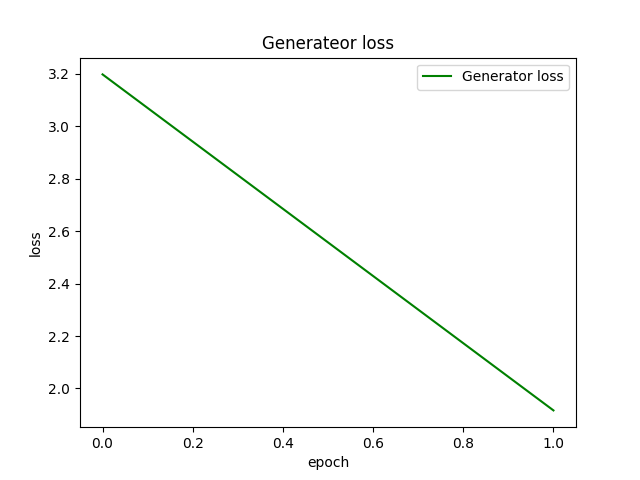
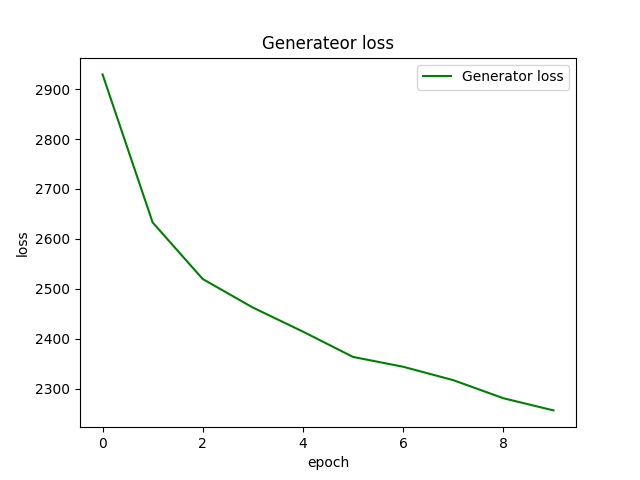
submit

diff --git a/train.py b/train.py
@@ -195,12 +195,12 @@ def train_fn(disc_H, disc_Z, gen_Z, gen_H, loader, opt_disc, opt_gen, l1, mse, d
                 G_loss = (
                     loss_G_Z
                     + loss_G_H
-                    # + color_zebra_loss
-                    # + color_horse_loss
+                    + color_zebra_loss
+                    + color_horse_loss
                     # + contant_zebra_loss
                     # + contant_horse_loss
                     + cycle_zebra_loss * 10
-                    + cycle_horse_loss * 10 
+                    + cycle_horse_loss * 10
                     # + cycle_zebra_loss * config.LAMBDA_CYCLE
                     # + cycle_horse_loss * config.LAMBDA_CYCLE
                     + identity_horse_loss * 0.5
@@ -218,7 +218,7 @@ def train_fn(disc_H, disc_Z, gen_Z, gen_H, loader, opt_disc, opt_gen, l1, mse, d
 
         loop.set_postfix(H_real=H_reals/(idx+1), H_fake=H_fakes/(idx+1))
 
-    return D_loss_total / 5, G_loss_total / 5
+    return D_loss_total / len(loop), G_loss_total / len(loop)
 
 def main():
     disc_H = Discriminator(in_channels=3).to(config.DEVICE)
@@ -242,16 +242,16 @@ def main():
 
     if config.LOAD_MODEL:
         load_checkpoint(
-            config.CHECKPOINT_GEN_H, gen_H, opt_gen, config.LEARNING_RATE,
+            "pre_trained\model\l1+color\genh.pth.tar", gen_H, opt_gen, config.LEARNING_RATE,
         )
         load_checkpoint(
-            config.CHECKPOINT_GEN_Z, gen_Z, opt_gen, config.LEARNING_RATE,
+            "pre_trained\model\l1+color\genz.pth.tar",gen_Z, opt_gen, config.LEARNING_RATE,
         )
         load_checkpoint(
-            config.CHECKPOINT_CRITIC_H, disc_H, opt_disc, config.LEARNING_RATE,
+            "pre_trained\model\l1+color\critich.pth.tar", disc_H, opt_disc, config.LEARNING_RATE,
         )
         load_checkpoint(
-            config.CHECKPOINT_CRITIC_Z, disc_Z, opt_disc, config.LEARNING_RATE,
+            "pre_trained\model\l1+color\criticz.pth.tar", disc_Z, opt_disc, config.LEARNING_RATE,
         )
 
     dataset = HorseZebraDataset(
@@ -288,10 +288,10 @@ def main():
         loss_D.append(avg_D_loss)
         loss_G.append(avg_G_loss)
         if config.SAVE_MODEL:
-            save_checkpoint(gen_H, opt_gen, filename=config.CHECKPOINT_GEN_H)
-            save_checkpoint(gen_Z, opt_gen, filename=config.CHECKPOINT_GEN_Z)
-            save_checkpoint(disc_H, opt_disc, filename=config.CHECKPOINT_CRITIC_H)
-            save_checkpoint(disc_Z, opt_disc, filename=config.CHECKPOINT_CRITIC_Z)
+            save_checkpoint(gen_H, opt_gen, filename="pre_trained\model\l1+color\genh.pth.tar")
+            save_checkpoint(gen_Z, opt_gen, filename="pre_trained\model\l1+color\genz.pth.tar")
+            save_checkpoint(disc_H, opt_disc, filename="pre_trained\model\l1+color\critich.pth.tar")
+            save_checkpoint(disc_Z, opt_disc, filename= "pre_trained\model\l1+color\criticz.pth.tar")
     x_axix = range(config.NUM_EPOCHS)
     plt.figure(0)
     plt.title('Discriminator loss')

diff --git a/test.py b/test.py
@@ -27,13 +27,13 @@ opt_gen = optim.Adam(
     betas=(0.5, 0.999),
 )
 load_checkpoint(
-    config.CHECKPOINT_GEN_H, gen_H, opt_gen, config.LEARNING_RATE,
+    "pre_trained\model\l1+color\genh.pth.tar", gen_H, opt_gen, config.LEARNING_RATE,
 )
 load_checkpoint(
-    config.CHECKPOINT_GEN_Z, gen_Z, opt_gen, config.LEARNING_RATE,
+   "pre_trained\model\l1+color\genz.pth.tar", gen_Z, opt_gen, config.LEARNING_RATE,
 )
-zebra_path = "WeChat Image_20220404202029.jpg"
-horse_path = "WeChat Image_20220404202029.jpg"
+zebra_path = "test/girl.jpg"
+horse_path = "test/girl.jpg"
 
 zebra_img = np.array(Image.open(zebra_path).convert("RGB"))
 horse_img = np.array(Image.open(horse_path).convert("RGB"))
@@ -52,4 +52,6 @@ zebra_img = augmentations["image"]
 horse_img = augmentations["image0"]
 horse_img = horse_img.to(config.DEVICE)
 arcane_chongyu = gen_H(horse_img)
-save_image(arcane_chongyu*0.5+0.5, f"chongyu.png")
+save_image(arcane_chongyu*0.5+0.5, f"arcane_girl.png")
+real_chongyu = gen_Z(arcane_chongyu)
+save_image(real_chongyu*0.5+0.5, f"real_girl.png")

diff --git a/config.py b/config.py
@@ -6,12 +6,12 @@ DEVICE = "cuda" if torch.cuda.is_available() else "cpu"
 TRAIN_DIR = "arcane_face_data/train"
 VAL_DIR = "arcane_face_data/val"
 BATCH_SIZE = 1
-LEARNING_RATE = 1e-5
+LEARNING_RATE = 1e-4
 LAMBDA_IDENTITY = 0.0
 LAMBDA_CYCLE = 10
 NUM_WORKERS = 4
-NUM_EPOCHS = 2
-LOAD_MODEL = False
+NUM_EPOCHS = 10
+LOAD_MODEL = True
 SAVE_MODEL = True
 CHECKPOINT_GEN_H = "genh.pth.tar"
 CHECKPOINT_GEN_Z = "genz.pth.tar"
